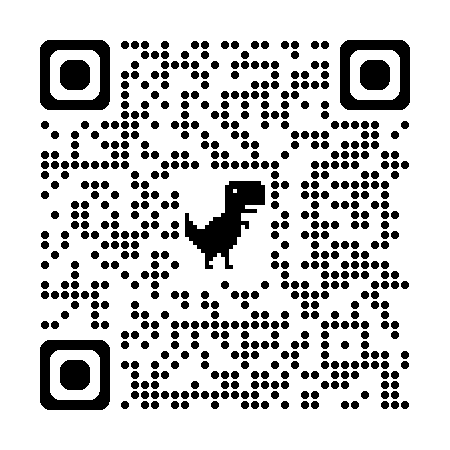
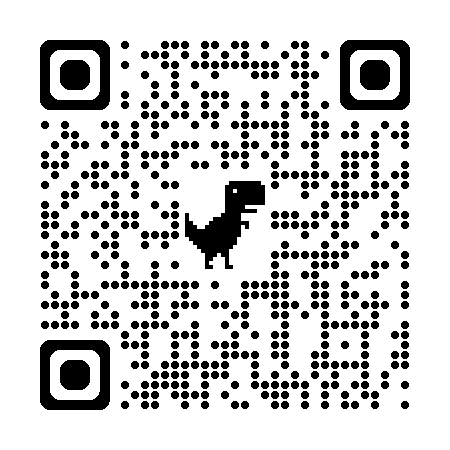
wardcampout

diff --git a/c5activities/wardcampout.html b/c5activities/wardcampout.html
@@ -1,0 +1,111 @@
+<!DOCTYPE html>
+<html lang="en">
+<head>
+    <meta charset="UTF-8">
+    <meta name="viewport" content="width=device-width, initial-scale=1.0">
+    <title>Ward Campout</title>
+    <link rel="stylesheet" href="styles/styles.css">
+</head>
+<body>
+    <div id="content">
+        <header>
+            <a id="logo_link" href="index.html">
+                <img class="logo" src="images/rsz_rsz_c5wardactlogo.jpg" alt="C5 Logo">
+            </a>
+            <nav class="navigation1">
+                <div class="homebutton">
+                    <a href="index.html">Home</a>
+                </div>
+            </nav>
+            <nav class="navigation2">
+                <div class="dropdown">
+                    <button class="dropbtn">Future Events</button>
+                    <div class="dropdown-content">
+                        <!--<a href="chilicookoff.html">Chili Cook-off</a>-->
+                        <!--<a href="bingo.html">Bingo!</a>-->
+                        <!--<a href="movienightaug.html">Movie Night!</a>-->
+                        <!--<a href="lingerlonger.html">Linger-longer</a>-->
+                        <!--<a href="trunkortreat.html">Ward Trunk-or-Treat</a>-->
+                        <!--<a href="christmasparty.html">Ward Christmas Party</a>-->
+
+                    </div>
+                </div>
+            </nav>
+        </header>
+        <main class="home-grid">
+            <h1 class="homepageh1">Ward Campout</h1>
+            
+            <div class="wardcampoutiternary1">
+                <p>When: Friday August 29th (1 pm) - Saturday August 30th (11am)</p>
+                <p>Where: Pinetop West Campground <br>
+                    150 Pinetop Rd. <br>
+                    Idaho City, ID 83716
+                </p>                
+            </div>
+
+            <div class="wardcampoutiternary2">
+                <h2>Itinerary</h2>
+                <ul> 
+                    <li>Friday, August 29th</li>
+                    <ul>
+                        <li>You may arrive at 1pm or later</li>
+                        <li>Basketball/Picketball- 1:15pm-4:15pm</li>
+                        <li>Swimming- All Day</li>
+                        
+                            <li>Grassy Field-All Day</li>
+                            <ul>Kickball, Ultimate Frisbee, Capture the Flag and Glowstick</ul>
+                        <li>Pavillion-All Day</li>
+                        <ul>Board Games, Card Games, and Puzzles</ul>
+                        <li>Campfire- 8:00pm-9:30pm</li>
+                    </ul>
+                    <li>Saturday, August 30th</li>
+                    <ul>
+                        <li>Breakfast- 8:00am-9:30am</li>
+                        <li>Pavilion-5:00 am-11:00 am</li>
+                        <li>Swimming 8:00 am-11:00 am</li>
+                        <li>Packed out no later than 11:00 am</li>
+                    </ul>
+                </ul>
+            
+
+                
+
+
+                </p>
+            </div>
+
+        </main>
+
+        <footer>
+            <p>C5 Ward Activities &copy; 2025<br>Nathan Bird</p>
+            <div class="footerhomebutton">
+                <p><a href="index.html">Home </a></p>
+            </div>
+            <div class="future_eventsfootlist">
+                <p>Future Events</p>
+                <ul>
+
+                    <!--<li><a href="movienightaug.html">Movie Night!</a></li>-->
+                    <!--<li><a href="lingerlonger.html">Linger-longer</a></li>-->
+                    <!--<li><a href="trunkortreat.html">Ward Trunk-or-Treat</a></li>-->
+                    <!--<li><a href="christmasparty.html">Ward Christmas Party</a> </li>-->
+                </ul>
+            </div>
+            <div class="footersiteplan">
+                <!--<p><a href="site-plan.html">Site-plan</a> </p> -->
+            </div>
+            <div class="footerwebclicks">
+                <!--<a id="facebook" href="https://facebook.com" target="_blank">
+                    <img src="images/facebook.png" alt="FB Icon"> -->
+                </a>
+                <a id="lds" href="https://churchofjesuschrist.org/?lang=eng" target="_blank">
+                    <img src="images/rsz_1200x675church_logo.jpg" alt="LDS Icon">
+                </a>
+            </div>
+        </footer>
+
+
+    </div>
+
+</body>
+</html>

diff --git a/c5activities/index.html b/c5activities/index.html
@@ -22,10 +22,11 @@
                 <div class="dropdown">
                     <button class="dropbtn">Future Events</button>
                     <div class="dropdown-content">
-                        <a href="chilicookoff.html">Chili Cook-off</a>
+                        <!--<a href="chilicookoff.html">Chili Cook-off</a>-->
                         <!--<a href="bingo.html">Bingo!</a>-->
                         <!--<a href="movienightaug.html">Movie Night!</a>-->
-                        <a href="lingerlonger.html">Linger-longer</a>
+                        <!--<a href="lingerlonger.html">Linger-longer</a>-->
+                        <a href="wardcampout.html">Ward Campout</a>
                         <!--<a href="trunkortreat.html">Ward Trunk-or-Treat</a>-->
                         <!--<a href="christmasparty.html">Ward Christmas Party</a>-->
                         
@@ -45,7 +46,7 @@
             <div class="mainp1">
                 
                 <p id="homepagep1"> Welcome to the C5 Ward Activities Page! As part of the C5 Ward Activities member,
-                    we want to help spread awareness for our future events this 2024 year! We want to give access to the C5 Ward members.
+                    we want to help spread awareness for our future events this 2025 year! We want to give access to the C5 Ward members.
                     <br><br>
                     Also, it will help them to know what activities are coming up, what we are planning, and what items the members need to bring. 
                     Plus, it will help inform members to invite their ministering families and non-members to these events. 
@@ -61,16 +62,8 @@
                     Rather, it must be judged by its effect on the lives of those participating." 
                     President James E. Faust, Second Counselor in the First Presidency, "Strengthening the Inner Self," Ensign, Feb. 2003, 4.
                 <br><br>
-                    Future Events 2025 @ Stake Center
-                    <li>March 29th Chili Cook-off</li>
-                    <li>May 24th Bingo/Game Night with Potluck</li>
-                    <li>June 21st Pinewood Derby/Potluck</li>
-                    <li>August 16th Ward BBQ/Water Olympics</li>
-                    <li>September (Day TBD) Orchard Pizza Night</li>
-                    <li>October 25th Trunk-or-Treat</li>
-                    <li>December 6th Christmas Party</li><br>
-                    Other gatherings @ Montana Building
-                    <li>Linger-longers during warmer months</li>
+                    
+                    
                     
 
                 </p>

diff --git a/c5activities/styles/styles.css b/c5activities/styles/styles.css
@@ -207,6 +207,25 @@ nav a, .navigation1, .navigation2{
   font-size: 2.5em;
 }
 
+/*Ward Campout*/
+.wardcampoutiternary1  {
+  grid-column: 1/4;
+  grid-row: 2/3;
+  text-align: center;
+  font-size: 1.5em;
+}
+.wardcampoutiternary1 ul {
+  list-style-type: none;
+  padding: 0;
+}
+.wardcampoutiternary2{
+  grid-column: 1/4;
+  grid-row: 4/5;
+  text-align: center;
+  font-size: 1.5em;
+}
+
+
 
 
 
